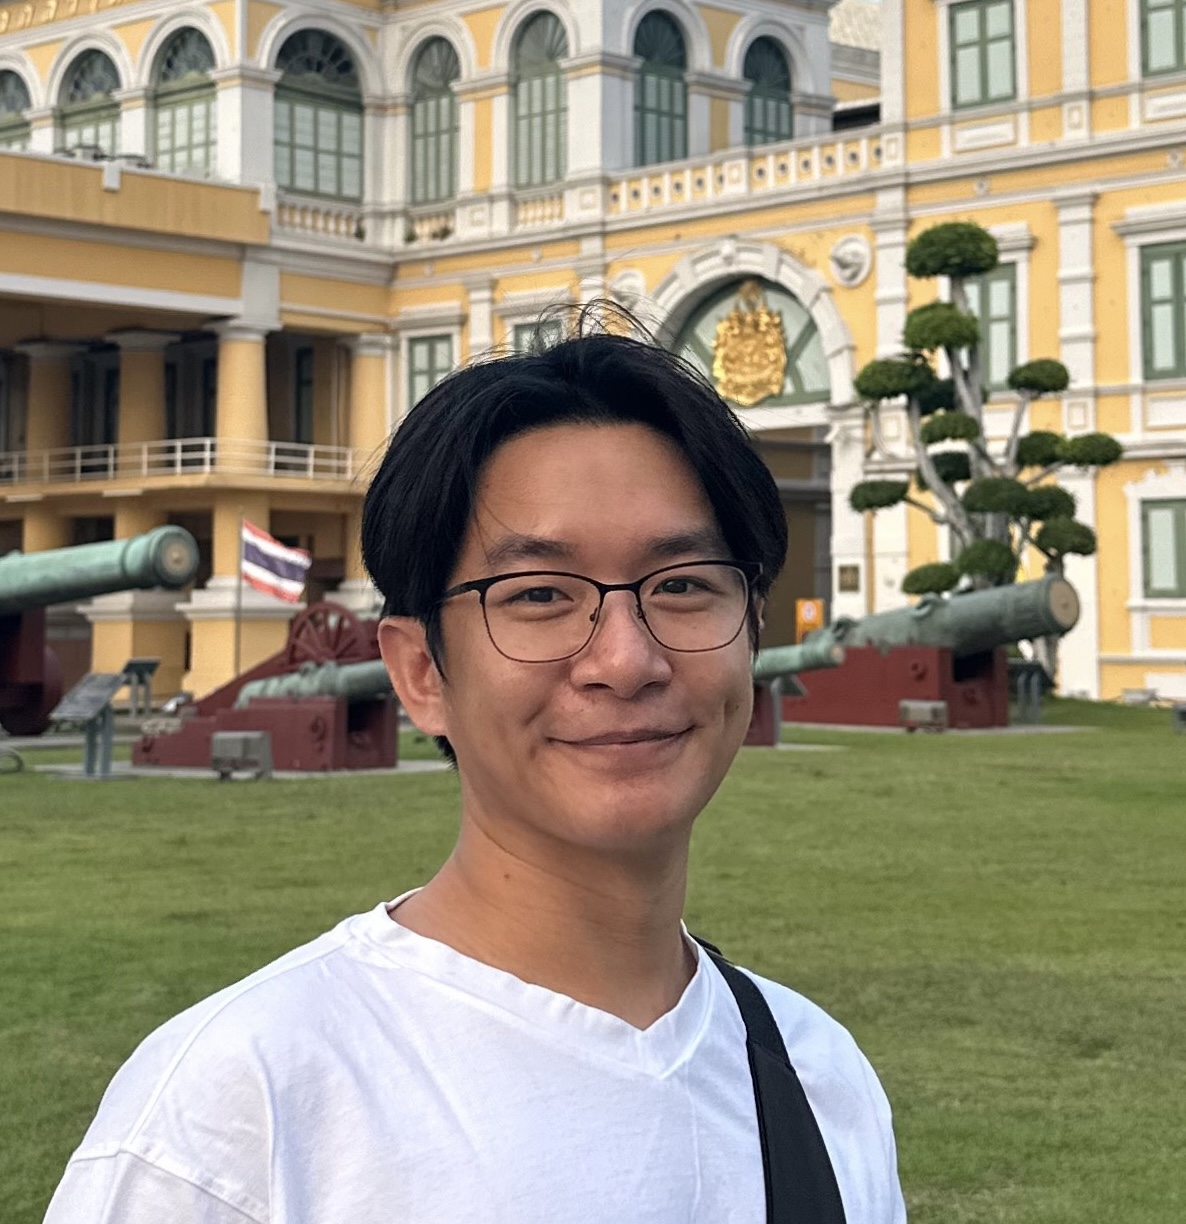
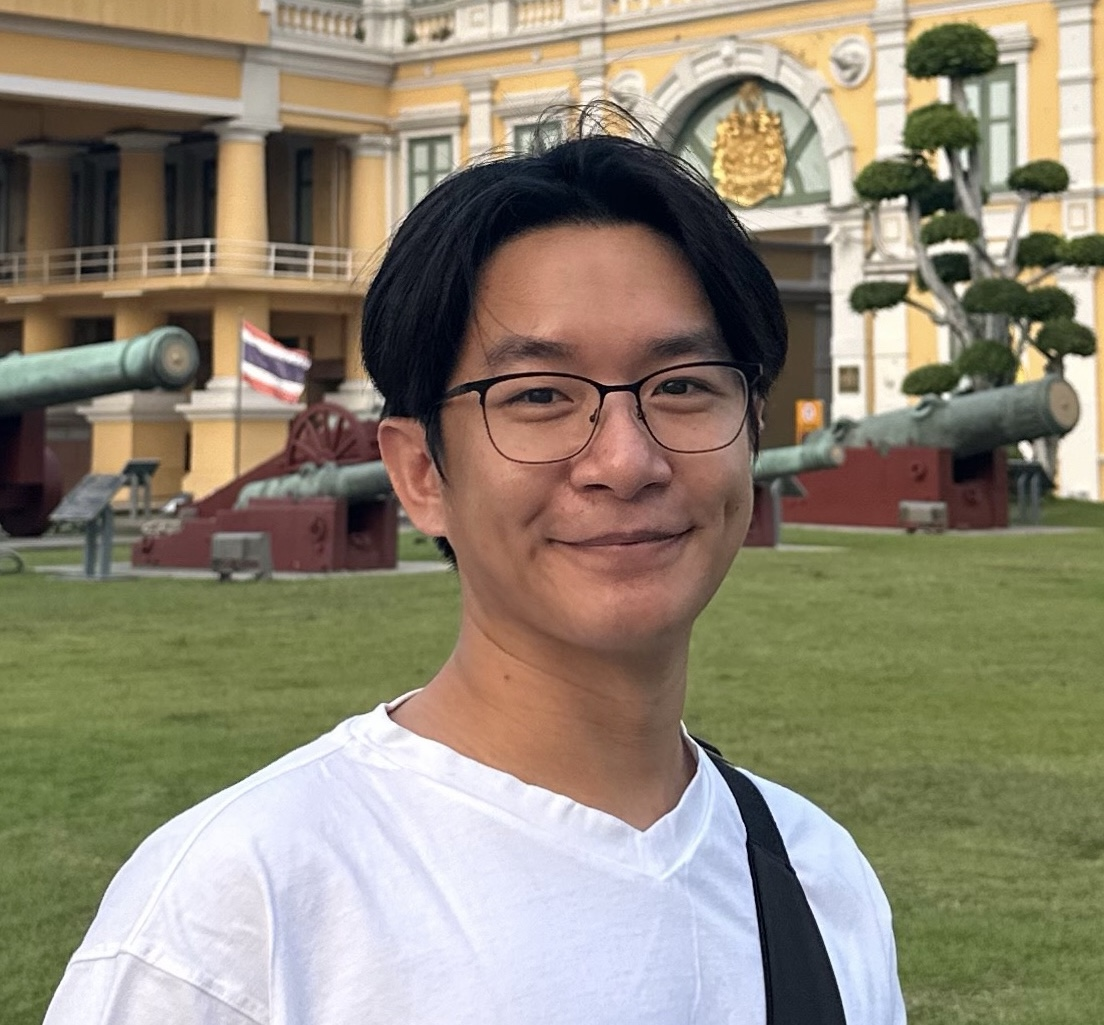
update posts

diff --git a/_layouts/default.html b/_layouts/default.html
@@ -48,7 +48,7 @@
               </p>
             </td>
             <td style="padding:2.5%;width:40%;max-width:40%">
-              <img style="width:80%;max-width:80%" alt="profile photo" src="images/sithu_pic.jpg">
+              <img style="width:70%;max-width:70%" alt="profile photo" src="images/sithu_pic.jpg">
             </td>
           </tr>
         </table>
